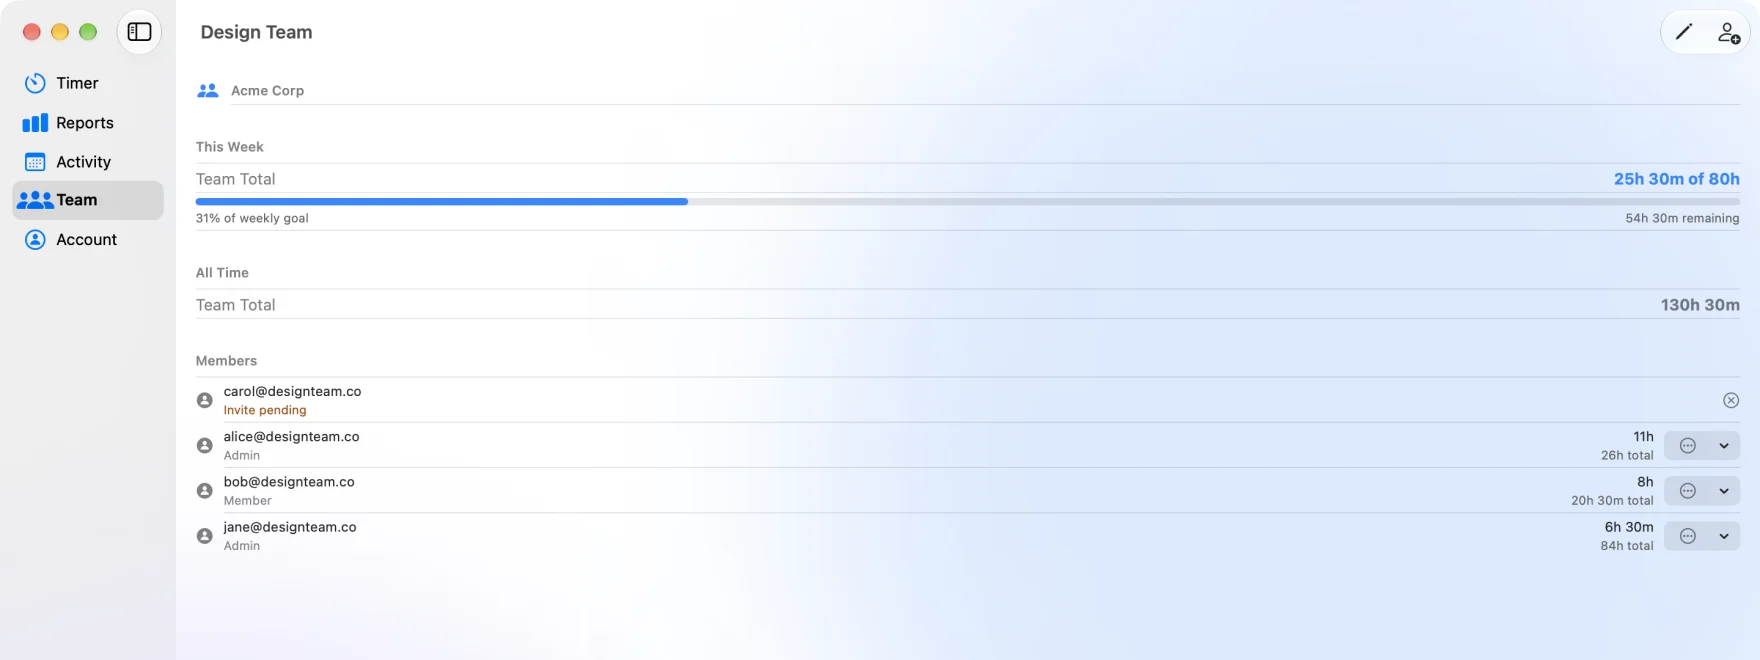
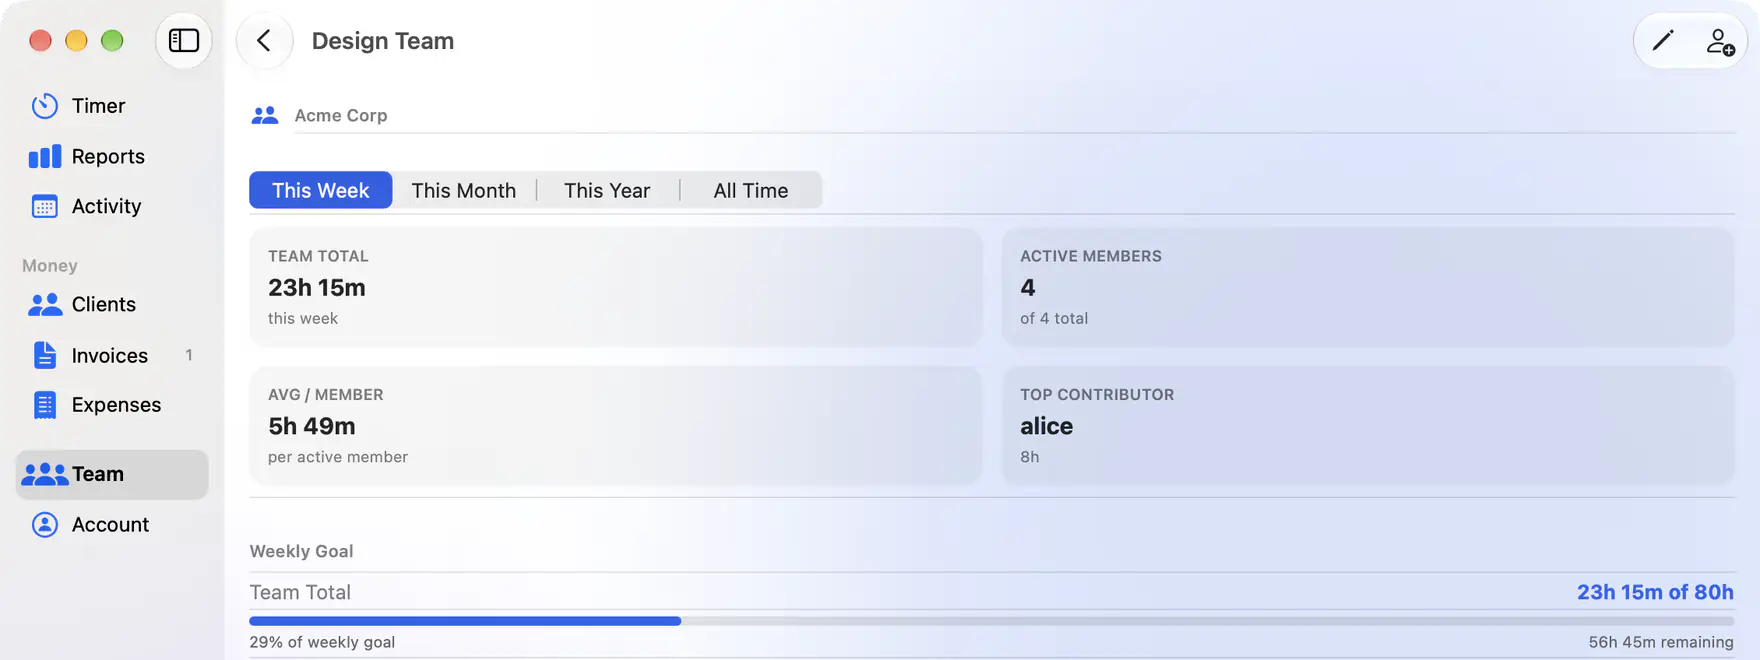
Tally case study: 1.14.0 screens, Money section and Mac shortcuts

diff --git a/tally.html b/tally.html
@@ -344,7 +344,7 @@
                     <div class="phone-mockup">
                         <div class="phone-btns-left"></div>
                         <div class="phone-screen-static">
-                            <img src="assets/images/tallyios/app/iphone-picker.webp" alt="The client picker: Acme Corp under the Design Team, and personal clients Blue Sky Studio and River North Group" loading="lazy" width="520" height="1130" style="width:100%;height:auto;display:block;border-radius:30px;">
+                            <img src="assets/images/tallyios/app/iphone-picker.webp" alt="The client picker: recent clients Acme Corp, Blue Sky Studio, Freelance and River North Group, a new client field and Start Tally" loading="lazy" width="520" height="1130" style="width:100%;height:auto;display:block;border-radius:30px;">
                         </div>
                     </div>
                     <p>Client picker</p>
@@ -362,7 +362,7 @@
                     <div class="phone-mockup">
                         <div class="phone-btns-left"></div>
                         <div class="phone-screen-static">
-                            <img src="assets/images/tallyios/app/iphone-reports.webp" alt="Reports for this week: 18 hours 39 minutes against a 20 hour goal, split by client and by type of work" loading="lazy" width="520" height="1130" style="width:100%;height:auto;display:block;border-radius:30px;">
+                            <img src="assets/images/tallyios/app/iphone-reports.webp" alt="Reports for this week: 27 hours 15 minutes against a 35 hour goal, split by client and by type of work" loading="lazy" width="520" height="1130" style="width:100%;height:auto;display:block;border-radius:30px;">
                         </div>
                     </div>
                     <p>Reports</p>
@@ -371,7 +371,7 @@
                     <div class="phone-mockup">
                         <div class="phone-btns-left"></div>
                         <div class="phone-screen-static">
-                            <img src="assets/images/tallyios/app/iphone-activity21.webp" alt="The Activity calendar with Wednesday, October 21 selected: 5 hours 30 minutes across River North Group and Blue Sky Studio" loading="lazy" width="520" height="1130" style="width:100%;height:auto;display:block;border-radius:30px;">
+                            <img src="assets/images/tallyios/app/iphone-activity21.webp" alt="The Activity calendar with Thursday, October 29 selected: 6 hours across Acme Corp and River North Group" loading="lazy" width="520" height="1130" style="width:100%;height:auto;display:block;border-radius:30px;">
                         </div>
                     </div>
                     <p>Activity</p>
@@ -433,19 +433,19 @@
 
         <div class="case-section">
             <h3>iPad</h3>
-            <p>On iPad the sidebar stays open, so Timer, Reports, Activity and Team are one tap away without covering the page.</p>
+            <p>On iPad the sidebar stays open, so Timer, Reports and Activity, plus the Money section (Clients, Invoices and Expenses), are one tap away without covering the page.</p>
             <div class="tally-ipad-grid">
                 <div class="ipad-mockup"><div class="ipad-screen"><img src="assets/images/tallyios/app/ipad-reports.webp" alt="Tally on iPad: Reports with this week's hours by client and by type of work" loading="lazy" width="1100" height="826" style="height:auto;"></div></div>
-                <div class="ipad-mockup"><div class="ipad-screen"><img src="assets/images/tallyios/app/ipad-activity.webp" alt="Tally on iPad: Acme Corp with 88 hours, total earnings, the Hours Report PDF and every session" loading="lazy" width="1100" height="826" style="height:auto;"></div></div>
+                <div class="ipad-mockup"><div class="ipad-screen"><img src="assets/images/tallyios/app/ipad-activity.webp" alt="Tally on iPad: Acme Corp with 147 hours 30 minutes, total earnings, the Hours Report PDF and every session" loading="lazy" width="1100" height="826" style="height:auto;"></div></div>
             </div>
         </div>
 
         <div class="case-section">
             <h3>Native macOS App</h3>
-            <p>A fully native macOS target — not Catalyst — with Mac patterns throughout: sidebar navigation, right-click to edit or delete sessions, and Mac-specific sign-in (Apple and email; Google has no Mac SDK).</p>
+            <p>A fully native macOS target — not Catalyst — with Mac patterns throughout: sidebar navigation with a Money section (Clients, Invoices, Expenses), keyboard shortcuts (⌘N to log hours, ⌘K to search, ⌥⌘S, ⌥⌘P and ⌥⌘. to start, pause and stop the timer), right-click to edit or delete sessions, and Mac-specific sign-in (Apple and email; Google has no Mac SDK).</p>
             <p>Mac and iOS share the same SwiftUI source, with iOS-only APIs excluded by <code>#if os(iOS)</code> guards. A shared bundle ID enables Universal Purchase: buy on iPhone, unlocked on Mac.</p>
-            <img src="assets/images/tallyios/app/mac-team.webp" alt="Tally on macOS: the Design Team for Acme Corp at 25 hours 30 minutes of an 80 hour weekly goal, with each member's role and hours and one invite pending" loading="lazy" width="1760" height="660" style="width:100%;max-width:820px;height:auto;display:block;border-radius:10px 10px 0 0;margin-top:1.5em;box-shadow:0 0 0 1px var(--color-border);-webkit-mask-image:linear-gradient(#000 70%,transparent);mask-image:linear-gradient(#000 70%,transparent);">
-            <p class="case-caption">Team workspaces in the Mac app: a shared weekly goal, roles and invites</p>
+            <img src="assets/images/tallyios/app/mac-team.webp" alt="Tally on macOS: the Design Team for Acme Corp at 23 hours 15 minutes of an 80 hour weekly goal, with the team total, active members, average per member and top contributor" loading="lazy" width="1760" height="660" style="width:100%;max-width:820px;height:auto;display:block;border-radius:10px 10px 0 0;margin-top:1.5em;box-shadow:0 0 0 1px var(--color-border);-webkit-mask-image:linear-gradient(#000 70%,transparent);mask-image:linear-gradient(#000 70%,transparent);">
+            <p class="case-caption">Team workspaces in the Mac app: a shared weekly goal, team totals and each member's hours</p>
         </div>
 
         <div class="case-section" id="architecture">
@@ -576,7 +576,7 @@
                 <a href="https://apps.apple.com/us/app/tally-time-tracker/id6775275483?platform=vision&amp;pt=128288066&amp;ct=portfolio_tally_visionpro&amp;mt=8" target="_blank" rel="noopener noreferrer" style="display:inline-block;"><img src="assets/images/site/Download_on_the_App_Store_Badge_US-UK_RGB_blk_092917.svg" alt="Download Tally for Apple Vision Pro on the App Store" width="120" height="40" style="display:block;"></a>
             </div>
             <div style="flex:1.3;min-width:260px;">
-                <img src="assets/images/tallyios/app/visionpro-timer.webp" width="1600" height="900" loading="lazy" alt="Tally on Apple Vision Pro: a glass window in a living room with the sidebar, an empty timer ring, Acme Corp and River North Group goal progress, Start Timer, and an Open Timer Volume button below the window" style="width:100%;height:auto;display:block;border-radius:14px;filter:drop-shadow(0 24px 56px rgba(0,0,0,0.55));" />
+                <img src="assets/images/tallyios/app/visionpro-timer.webp" width="1600" height="900" loading="lazy" alt="Tally on Apple Vision Pro: a glass window in a living room with the sidebar, an empty timer ring, River North Group, Acme Corp and Blue Sky Studio goal progress, Start Timer, and an Open Timer Volume button below the window" style="width:100%;height:auto;display:block;border-radius:14px;filter:drop-shadow(0 24px 56px rgba(0,0,0,0.55));" />
             </div>
         </div>
     </div>
